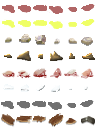
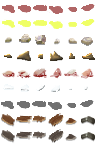
ADD Explosive barrel

diff --git a/src/ObstacleEntity.cpp b/src/ObstacleEntity.cpp
@@ -1,5 +1,6 @@
 #include "BoltEntity.h"
 #include "EnemyBoltEntity.h"
+#include "ExplosionEntity.h"
 #include "sfml_game/SpriteEntity.h"
 #include "sfml_game/ImageManager.h"
 #include "sfml_game/SoundManager.h"
@@ -14,10 +15,12 @@ ObstacleEntity::ObstacleEntity(float x, float y, int objectFrame)
   type = ENTITY_ENEMY_NC;
   enemyType = EnemyTypeDestroyable;
   movingStyle = movWalking;
-  bloodColor = BloodBarrel;
+  explosive = false;
 
   dyingSound = SOUND_BARREL_SMASH;
   hurtingSound = SOUND_BARREL_HIT;
+  bloodColor = BloodNone;
+  obstacleBloodType = BloodBarrel;
 
   age = 0.0f;
   frame = 0;
@@ -30,23 +33,59 @@ ObstacleEntity::ObstacleEntity(float x, float y, int objectFrame)
 
   switch (objectFrame)
   {
+  //standard barrel
   case MAPOBJ_BARREL:
     hp = 18;
     hpMax = 18;
     initialFrame = 0;
+    deathFrame = FRAME_CORPSE_BARREL;
     break;
   case MAPOBJ_BARREL + 1:
     hp = 12;
     hpMax = 12;
     initialFrame = 0;
     frame = 1;
+    deathFrame = FRAME_CORPSE_BARREL;
     break;
   case MAPOBJ_BARREL + 2:
     hp = 6;
     hpMax = 6;
     initialFrame = 0;
     frame = 2;
+    deathFrame = FRAME_CORPSE_BARREL;
     break;
+
+  //powder barrel
+  case MAPOBJ_BARREL_EXPL:
+    hp = 18;
+    hpMax = 18;
+    initialFrame = 3;
+    frame = 3;
+    deathFrame = FRAME_CORPSE_SLIME_VIOLET;
+    explosive = true;
+    obstacleBloodType = BloodBarrelPowder;
+    break;
+
+  case MAPOBJ_BARREL_EXPL + 1:
+    hp = 12;
+    hpMax = 12;
+    initialFrame = 3;
+    frame = 4;
+    deathFrame = FRAME_CORPSE_SLIME_VIOLET;
+    explosive = true;
+    obstacleBloodType = BloodBarrelPowder;
+    break;
+
+  case MAPOBJ_BARREL_EXPL + 2:
+    hp = 6;
+    hpMax = 6;
+    initialFrame = 3;
+    frame = 5;
+    deathFrame = FRAME_CORPSE_SLIME_VIOLET;
+    explosive = true;
+    obstacleBloodType = BloodBarrelPowder;
+    break;
+
   default:
     std::cout << "ERROR: unknown obstacle (" << objectFrame << ")\n";
     isDying = true;
@@ -76,6 +115,15 @@ void ObstacleEntity::dying()
   EnemyEntity::dying();
   game().getCurrentMap()->setObjectTile(xGrid, yGrid, 0);
   game().getCurrentMap()->setLogicalTile(xGrid, yGrid, LogicalFloor);
+
+  for (int i = 0; i < 10; i++)
+    game().generateBlood(x, y, obstacleBloodType);
+
+  if (explosive)
+  {
+    new ExplosionEntity(x, y, ExplosionTypeStandard, 16, EnemyTypeNone, true);
+    SoundManager::getInstance().playSound(SOUND_BOOM_00);
+  }
 }
 
 void ObstacleEntity::calculateBB()
@@ -139,3 +187,12 @@ void ObstacleEntity::correctFrame()
   }
 }
 
+int ObstacleEntity::hurt(StructHurt hurtParam)
+{
+  int oldHp = hp;
+  int result = EnemyEntity::hurt(hurtParam);
+  int diff = oldHp - hp;
+  for (int i = 0; i < diff; i++)
+    game().generateBlood(x, y, obstacleBloodType);
+  return result;
+}

diff --git a/src/BaseCreatureEntity.h b/src/BaseCreatureEntity.h
@@ -133,7 +133,7 @@ class BaseCreatureEntity : public CollidingSpriteEntity
     virtual void dying();
     enum enumMovingStyle { movWalking, movFlying};
     virtual enumMovingStyle getMovingStyle();
-    enum enumBloodColor { BloodNone = -1, BloodRed, BloodGreen, BloodRock, BloodEgg, BloodBubble, BloodBubbleIce, BloodBlack, BloodBarrel};
+    enum enumBloodColor { BloodNone = -1, BloodRed, BloodGreen, BloodRock, BloodEgg, BloodBubble, BloodBubbleIce, BloodBlack, BloodBarrel, BloodBarrelPowder};
     enum enumSpecialState
     {
       SpecialStateIce, // = 0

diff --git a/src/ObstacleEntity.h b/src/ObstacleEntity.h
@@ -13,6 +13,7 @@ class ObstacleEntity : public EnemyEntity
 
     virtual void render(sf::RenderTarget* app);
     virtual void dying();
+    virtual int hurt(StructHurt hurtParam);
 
   protected:
 	  virtual void drop();
@@ -23,6 +24,8 @@ class ObstacleEntity : public EnemyEntity
     int initialFrame;
 
     void correctFrame();
+    bool explosive;
+    enumBloodColor obstacleBloodType;
 };
 
 #endif // OBSTACLEENTITY_H

diff --git a/src/DungeonMap.h b/src/DungeonMap.h
@@ -34,7 +34,9 @@ const int MAPOBJ_SHOP_BEGIN    =   11;
 const int MAPOBJ_SHOP_LEFT     =   0 + MAPOBJ_SHOP_BEGIN;
 const int MAPOBJ_SHOP          =   1 + MAPOBJ_SHOP_BEGIN;
 const int MAPOBJ_SHOP_RIGHT    =   2 + MAPOBJ_SHOP_BEGIN;
+
 const int MAPOBJ_BARREL        =   1000;
+const int MAPOBJ_BARREL_EXPL   =   1010;
 
 const int MAP_NORMAL_FLOOR    =   8;
 const int MAP_NB_FLOORS       =   10;

diff --git a/src/DungeonMap.cpp b/src/DungeonMap.cpp
@@ -627,7 +627,8 @@ void DungeonMap::initRoom(int floorN, int wallN)
   {
     int objX = 1 + rand() % (MAP_WIDTH - 2);
     int objY = 1 + rand() % (MAP_HEIGHT - 2);
-    objectsMap[objX][objY] = MAPOBJ_BARREL;
+    if (i == 7) objectsMap[objX][objY] = MAPOBJ_BARREL_EXPL;
+    else objectsMap[objX][objY] = MAPOBJ_BARREL;
   }
 }
 

diff --git a/src/Constants.h b/src/Constants.h
@@ -335,6 +335,7 @@ enum corpses_ressources{
   FRAME_CORPSE_CAULDRON_BLUE,
   FRAME_CORPSE_CAULDRON_RED,
   FRAME_CORPSE_CAULDRON_GREEN,
+  FRAME_CORPSE_BARREL,
 
   FRAME_CORPSE_KING_RAT,
   FRAME_CORPSE_GIANT_SLIME,
